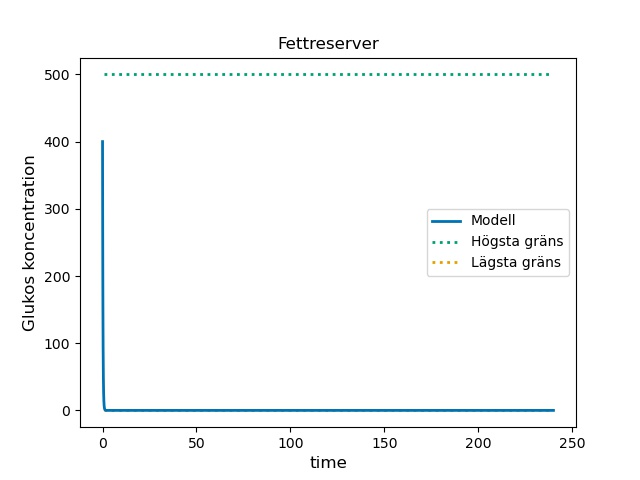
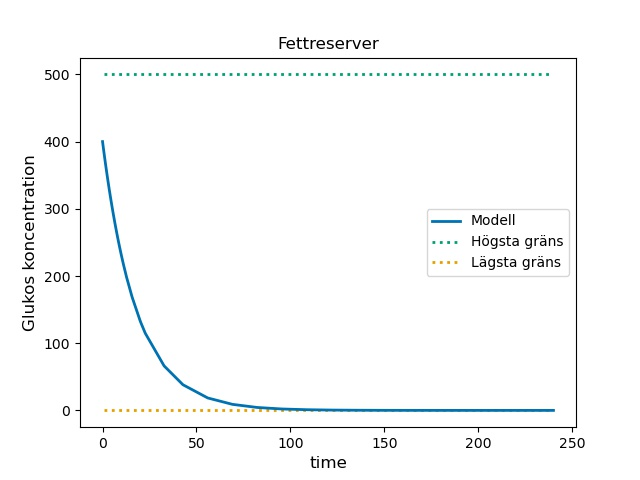
Week17 changed parameters
Changed the range for the parameters startvalues given by a unifomred logaritmic scale with 1000 iterations

Changed region(s): [[0.1562, 0.3125, 0.5625, 0.875], [0.2188, 0.6562, 0.25, 0.75]]

diff --git a/week17_test_parameters.py b/week17_test_parameters.py
@@ -1,0 +1,232 @@
+import numpy as np
+import matplotlib.pyplot as plt
+import scipy.stats
+import numpy as np 
+import scipy.integrate as integrate 
+from scipy.optimize import minimize
+from scipy.optimize import Bounds
+import matplotlib.pyplot as plt 
+import math 
+import pandas as pd
+import os
+import lhsmdu
+from tqdm import tqdm
+import copy
+import datetime
+
+# Colour-blind friendly palette (use nice colors)
+cb_palette1 = ["#999999", "#E69F00", "#56B4E9", "#009E73", "#F0E442", "#0072B2", "#D55E00", "#CC79A7"]
+
+# get data 
+data_G = pd.read_csv ("data_horses/glukos_FF_training.csv", sep=';')
+data_I = pd.read_csv ("data_horses/insulin_FF_training.csv", sep=';')
+data_G = data_G.sort_values(by=['time'])
+data_I = data_I.sort_values(by=['time'])
+
+
+# Extract times- and concentration-vectors
+tG_vec = data_G['time'].values
+tI_vec = data_I['time'].values  
+cG_vec = data_G['conc'].values
+cI_vec = data_I['conc'].values 
+
+# Split the time-vectors at timepoint 20 minutes
+index_G = np.searchsorted(tG_vec, 20)
+index_I = np.searchsorted(tI_vec, 20)
+
+tG_1 = tG_vec[0:index_G]
+tG_2 = tG_vec[index_G:]
+
+tI_1 = tI_vec[0:index_I]
+tI_2 = tI_vec[index_I:]
+
+time_span1 = [0, 20]
+
+time_span_G2 = [20, tG_2[-1]]
+time_span_I2 = [20, tI_2[-1]]
+
+
+def open_loop(t,x,b): 
+    # Parameters for the models as input
+    k1, k2, k3, k4, k5, k6, k7, k8 = b
+     
+    # # Says that the concentrations can't be lower than zero 
+    # x = copy.deepcopy(x_old) # can't modify the input so we copy it
+
+    # x[x < 0] = 0.0  
+
+    # Scaling factor for units
+    scal_factor = 1e-9
+
+    # Concentrations in the model as input 
+    G, I, C, M, H, E, F = x
+
+    # Glucose plasma [1]
+    dG = k4*C + k1*H - k2*G*I
+
+    # Insulin plasma [2]
+    dI = k3*G - k2*I*G*scal_factor
+
+    # GLucose liver [3]
+    dC = -k4*C + k6*scal_factor*E + k7*F
+
+    # Glucose musle [4]
+    dM = k2*scal_factor*G*I - k5*M
+
+    # Glucose intake [5]
+    dH = -k1*H
+
+    # Glucagon in plasma [6]
+    dE = k8 - k2*E*G 
+
+    # Fettreserve [7]
+    dF = -k7*F
+
+    return [dG, dI, dC, dM, dH, dE, dF]
+
+ 
+
+def cost_function(b, yG_vec, yI_vec):
+
+   # Calculates the target function for a model based on maximumlikelihood 
+
+    # Start concentration, timespan   
+    x0 = [30, 70, 220, 20, 16, 1300, 400]  # G, I, C, M, H, E, F 
+    
+    #Injection of insulin
+    inj = 2742
+
+    # Solve ODE-system until 20 minutes
+    first_sol_G = integrate.solve_ivp(open_loop, time_span1, x0, method="Radau", args=(b, ), t_eval=tG_1)
+    first_sol_I = integrate.solve_ivp(open_loop, time_span1, x0, method="Radau", args=(b, ), t_eval=tI_1) 
+    
+    # Simulate injection of insulin
+    x1_G = first_sol_G.y[:,-1] + [0, inj, 0, 0, 0, 0, 0]
+    x1_I = first_sol_I.y[:,-1] + [0, inj, 0, 0, 0, 0, 0]
+
+    # Solve ODE-system after injection
+    second_sol_G = integrate.solve_ivp(open_loop, time_span_G2, x1_G, method="Radau", args=(b, ), t_eval = tG_2)
+    second_sol_I = integrate.solve_ivp(open_loop, time_span_I2, x1_I, method="Radau", args=(b, ), t_eval = tI_2)
+
+    # The solution for the ODE-system over tG_vec and tI_vec
+    sol_G = np.concatenate([first_sol_G.y, second_sol_G.y], axis = 1)
+    sol_I = np.concatenate([first_sol_I.y, second_sol_I.y], axis = 1)
+     
+    # Solve ODE-system qualitative
+    first_sol_qual = integrate.solve_ivp(open_loop, [0,20], x0, method="Radau", args=(b, ))
+
+    # Simulate the injection
+    x2 = first_sol_qual.y[:, -1] + [0, inj, 0, 0, 0, 0, 0]
+
+    # Solve ODE-system after 20 miunutes with injection
+    second_sol_qual = integrate.solve_ivp(open_loop, [20,240], x2, method = "Radau", args = (b, ))
+
+    sol_qual = np.concatenate([first_sol_qual.y, second_sol_qual.y], axis = 1)
+
+    G_model = sol_qual[0]
+    I_model = sol_qual[1]
+    C_model = sol_qual[2]
+    M_model = sol_qual[3]
+    H_model = sol_qual[4]
+    E_model = sol_qual[5]
+    F_model = sol_qual[6]
+
+    # Extract G and I model concentrations at t-points tG_vec and tI_vec
+    yG_model = sol_G[0] 
+    yI_model = sol_I[1] 
+
+    # Build bounds for the concentrations and punnish the cost-func. if it cross the bounds
+    squared_sum = 0.0
+
+    range_G = [0, 500] # mM 
+    range_I = [0, 5000] #pM 
+    range_C = [0, 10000] # mmol 
+    range_M = [0, 500] # mmol
+    range_H = [0, 500] # mmol
+    range_E = [0, 500]
+    range_F = [0, 500]
+
+    penalty = 100
+
+    if any(G_model) > np.max(range_G):
+       squared_sum += penalty
+    if any(G_model) < np.min(range_G):
+       squared_sum += penalty
+    if any(I_model) > np.max(range_I):
+       squared_sum += penalty
+    if any(I_model) < np.min(range_I):
+       squared_sum += penalty
+    if any(C_model) > np.max(range_C):
+       squared_sum += penalty
+    if any(C_model) < np.min(range_C):
+       squared_sum += penalty
+    if any(M_model) > np.max(range_M):
+       squared_sum += penalty
+    if any(M_model) < np.min(range_M):
+       squared_sum += penalty
+    if any(H_model) > np.max(range_H):
+       squared_sum += penalty
+    if any(H_model) < np.min(range_H):
+       squared_sum += penalty
+    if any(E_model) > np.max(range_E):
+       squared_sum += penalty
+    if any(E_model) < np.min(range_E):
+       squared_sum += penalty
+    if any(F_model) > np.max(range_F):
+       squared_sum += penalty
+    if any(F_model) < np.min(range_F):
+       squared_sum += penalty
+    
+
+    # Calculate cost-function  
+    squared_sum = np.sum((yG_model - yG_vec))**2+np.sum((yI_model -  yI_vec)**2) 
+
+    return squared_sum 
+
+n_samples = 1000
+
+# Hypersphere
+
+# # Uniform
+# def hypersphere(n_dimensions, n_samples):
+#     rho = np.random.uniform(0, 1, n_samples) ** (1 / n_dimensions)
+#     r = np.random.normal(size=(n_dimensions, n_samples))
+#     c = np.sqrt(np.sum(r ** 2, axis=0))
+#     return rho * r / c
+
+# # Hypersphere
+# x = hypersphere(n_dimensions=2, n_samples=n_samples)
+
+# minimal_sphere = (np.inf, None)
+
+# for n in tqdm(range(n_samples)):
+
+#     cost = cost_function(y[:,n], cG_vec, cI_vec)
+
+#     if cost < minimum[0]:
+#         minimum_sphere = (cost, x[:,n])
+
+
+# Loguniform 
+
+n_a = -3
+n_b = 2
+
+a = 10** n_a
+b = 10 ** n_b
+
+y = scipy.stats.loguniform.rvs(a, b, size=(8, n_samples))
+
+minimum_log = (np.inf, None)
+
+for n in tqdm(range(n_samples)):
+
+    cost = cost_function(y[:,n], cG_vec, cI_vec)
+
+    if cost < minimum_log[0]:
+        minimum_log = (cost, y[:,n])
+
+print("Minimal costfunction and its parameters Sphere")
+print(minimal_sphere)
+print("Minimal costfunction and its parameters Log")
+print(minimum_log)

diff --git a/week17_open_loop_inj.py b/week17_open_loop_inj.py
@@ -190,7 +190,7 @@ start = np.array(lhsmdu.sample(8, 10)) # Latin Hypercube Sampling with multi-dim
 para, samples = start.shape
 
 ## intervals for the parameters
-para_int = [0, 500]
+para_int = [0, 0.001, 0.01, 0.1, 1, 10, 100, 500]
 
 minimum = (np.inf, None)
 
@@ -205,13 +205,22 @@ os.makedirs("logs", exist_ok=True)
 filename = f"logs/{datetime.datetime.utcnow()}.log"
 
 for n in tqdm(range(samples)):
-    k0 = start[:,n] * para_int[1]
+    # k0 = start[:,n] * para_int[1]
+    k1 = start[0,n] * para_int[2]
+    k2 = start[1,n] * para_int[2]
+    k3 = start[2,n] * para_int[1]
+    k4 = start[3,n] * para_int[3]
+    k5 = start[4,n] * para_int[4]
+    k6 = start[5,n] * para_int[2]
+    k7 = start[6,n] * para_int[4]
+    k8 = start[7,n] * para_int[1]
+
 
     try:
         res = minimize(
             fun = cost_function, 
-            x0 = k0,
-            method='Powell', 
+            x0 = [k1, k2, k3, k4, k5, k6, k7, k8],
+            method = 'Powell', 
             args = (cG_vec, cI_vec), 
             bounds=bounds, 
             tol=0.1,
